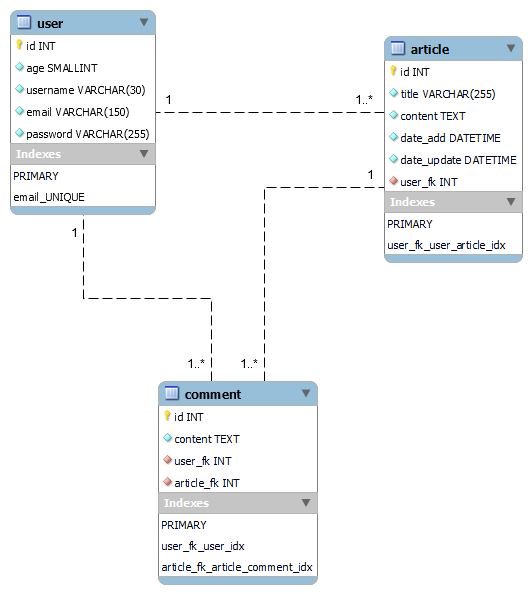
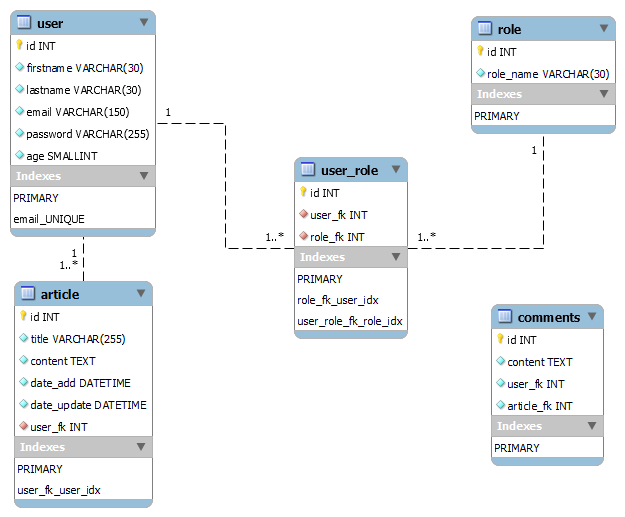
eval_blog

diff --git a/Model/Manager/RoleManager.php b/Model/Manager/RoleManager.php
@@ -1,0 +1,53 @@
+<?php
+
+namespace App\Model\Manager;
+
+use App\Model\DB;
+use App\Model\Entity\Role;
+use App\Model\Entity\User;
+
+class RoleManager
+{
+
+    public const TABLE = 'role';
+
+    /**
+     * @return array
+     */
+    public static function getAll(): array
+    {
+        $roles = [];
+        $request = DB::getPDO()->query("SELECT * FROM " . self::TABLE);
+        if ($request) {
+            foreach ($request->fetchAll() as $roleData) {
+                $roles[] = (new Role())
+                    ->setId($roleData['id'])
+                    ->setRoleName($roleData['role_name'])
+                    ;
+            }
+        }
+        return $roles;
+    }
+
+    /**
+     * @param User $user
+     * @return array
+     */
+    public static function getRolesByUser(User $user): array
+    {
+        $roles = [];
+        $rolesRequest = DB::getPDO()->query("
+            SELECT * FROM " . self::TABLE . " WHERE id IN (SELECT role_fk FROM user_role WHERE user_fk = {$user->getId()})
+        ");
+
+        if ($rolesRequest) {
+            foreach ($rolesRequest->fetchAll() as $roleData) {
+                $roles[] = (new Role())
+                    ->setId($roleData['id'])
+                    ->setRoleName($roleData['role_name'])
+                    ;
+            }
+        }
+        return $roles;
+    }
+}

diff --git a/Model/Manager/UserManager.php b/Model/Manager/UserManager.php
@@ -1,0 +1,37 @@
+<?php
+
+namespace App\Model\Manager;
+
+use App\Model\DB;
+use App\Model\Entity\User;
+
+class UserManager
+{
+    public const TABLE = 'user';
+
+    public static function getAll(): array
+    {
+        $users = [];
+        $request = DB::getPDO()->query("SELECT * FROM " . self::TABLE);
+
+        if ($request) {
+            foreach ($request->fetchAll() as $data) {
+                $users[] = self::makeUser($data);
+            }
+        }
+        return $users;
+    }
+
+    private static function makeUser(array $data): User
+    {
+        $user = (new User())
+            ->setId($data['id'])
+            ->setAge($data['age'])
+            ->setUsername($data['username'])
+            ->setEmail($data['email'])
+            ->setPassword($data['password'])
+            ;
+
+        return $user->setRoles(RoleManager::getRolesByUser($user));
+    }
+}

diff --git a/Model/Entity/User.php b/Model/Entity/User.php
@@ -8,6 +8,7 @@ class User extends AbstractEntity
     private string $username;
     private string $email;
     private string $password;
+    private array $roles;
 
     /**
      * @return int
@@ -78,6 +79,24 @@ class User extends AbstractEntity
     public function setPassword(string $password): self
     {
         $this->password = $password;
+        return $this;
+    }
+
+    /**
+     * @return array
+     */
+    public function getRoles(): array
+    {
+        return $this->roles;
+    }
+
+    /**
+     * @param array $roles
+     * @return User
+     */
+    public function setRoles(array $roles): self
+    {
+        $this->roles = $roles;
         return $this;
     }
 }

diff --git a/Model/Entity/Role.php b/Model/Entity/Role.php
@@ -1,0 +1,26 @@
+<?php
+
+namespace App\Model\Entity;
+
+class Role extends AbstractEntity
+{
+    private ?string $roleName;
+
+    /**
+     * @return string|null
+     */
+    public function getRoleName(): ?string
+    {
+        return $this->roleName;
+    }
+
+    /**
+     * @param string|null $roleName
+     * @return Role
+     */
+    public function setRoleName(?string $roleName): self
+    {
+        $this->roleName = $roleName;
+        return $this;
+    }
+}

diff --git a/includes.php b/includes.php
@@ -7,3 +7,7 @@ require __DIR__ . '/Model/Entity/AbstractEntity.php';
 require __DIR__ . '/Model/Entity/Article.php';
 require __DIR__ . '/Model/Entity/Comment.php';
 require __DIR__ . '/Model/Entity/User.php';
+require __DIR__ . '/Model/Entity/Role.php';
+
+require __DIR__ . '/Model/Manager/UserManager.php';
+require __DIR__ . '/Model/Manager/RoleManager.php';
